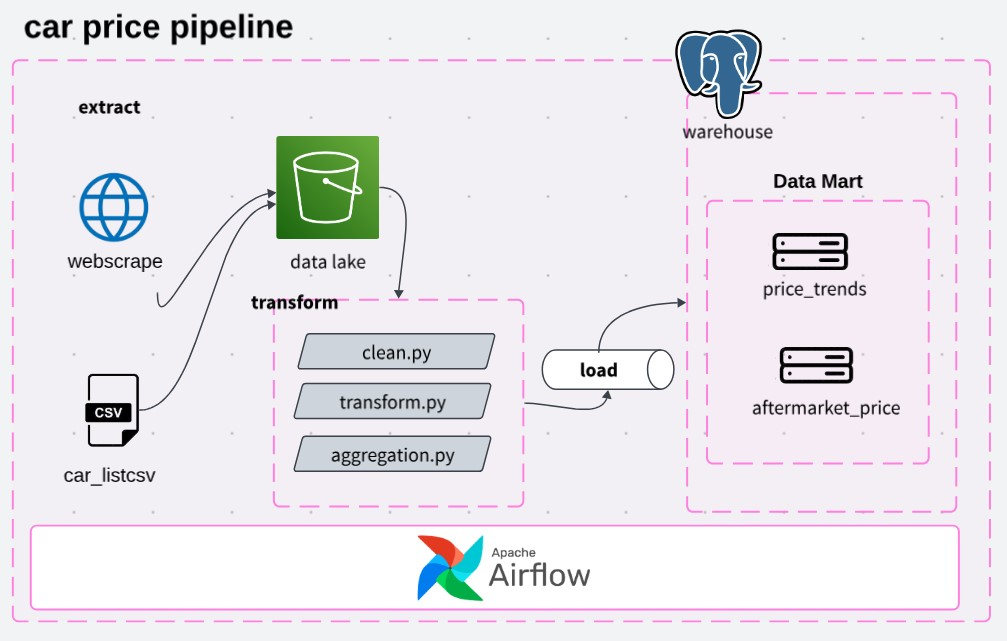
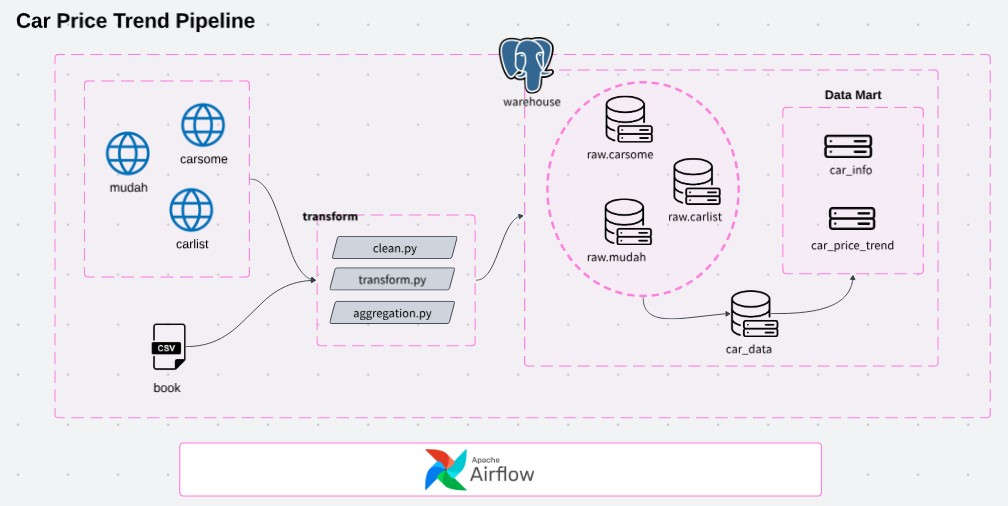
update

diff --git a/dags/extract_carlist.py b/dags/extract_carlist.py
@@ -1,0 +1,107 @@
+#simple web scrape using BeautifulSoup and undetected_chromedriver
+#implementaiton of undetected_chromedriver to avoid bot detection
+#version_main=132 is used for chrome version 132
+
+from bs4 import BeautifulSoup
+from datetime import datetime
+from selenium.webdriver.chrome.options import Options
+
+import time
+import undetected_chromedriver as uc
+
+
+def get_carlist():
+    carlist_data = []
+    date_extracted = datetime.now().strftime("%Y-%m-%d %H:%M:%S")
+    page = 1
+    stop_page = 2
+
+    try:
+        while page < stop_page:
+            chrome_options = Options()
+            chrome_options.add_argument("--headless")
+            chrome_options.add_argument("--disable-gpu")
+            chrome_options.add_argument("--window-size=1920,1080")
+            chrome_options.add_argument("--disable-dev-shm-usage")
+            chrome_options.add_argument("--no-sandbox")
+            chrome_options.add_argument("--disable-blink-features=AutomationControlled")
+            chrome_options.add_argument("--user-agent=Mozilla/5.0 (Windows NT 10.0; Win64; x64) AppleWebKit/537.36 (KHTML, like Gecko) Chrome/91.0.4472.124 Safari/537.36")
+            driver = uc.Chrome(version_main=132, options=chrome_options)
+            base_url = f"https://www.carlist.my/used-cars-for-sale/malaysia?sort=modification_date_search.desc"
+
+            if page > 1:
+                base_url = f"{base_url}&page_number={page}&page_size=25"
+
+            driver.get(base_url)
+            time.sleep(10)
+            html = driver.page_source
+            driver.quit()
+            soup = BeautifulSoup(html, 'html.parser')
+            
+            article_grids = soup.find_all("article")
+            for article_grid in article_grids:
+
+                # get data from article
+                title = article_grid.get("data-title", "N/A")
+                brand = article_grid.get("data-make", "N/A")
+                model = article_grid.get("data-model", "N/A")
+                model_group = article_grid.get("data-model-group", "N/A")
+                variant = article_grid.get("data-variant", "N/A")
+                body_type = article_grid.get("data-body-type", "N/A")
+                transmission = article_grid.get("data-transmission", "N/A")
+                mileage = article_grid.get("data-mileage", "N/A")
+                type = article_grid.get("data-ad-type", "N/A")
+                manufactured = article_grid.get("data-year", "N/A")
+
+                #get link to enter subpage
+                subpage_chrome_options = Options()
+                subpage_chrome_options.add_argument("--headless")
+                subpage_chrome_options.add_argument("--disable-gpu")
+                subpage_chrome_options.add_argument("--window-size=1920,1080")
+                subpage_chrome_options.add_argument("--disable-dev-shm-usage")
+
+                link = article_grid.get("data-url", "N/A")
+                driver = uc.Chrome(version_main=132, options=subpage_chrome_options)
+                driver.get(link)
+                time.sleep(5)
+                subpage_html = driver.page_source
+                driver.quit()
+
+                subpage_soup = BeautifulSoup(subpage_html, 'html.parser')
+
+                find_price = subpage_soup.find('h3')
+                price= find_price.text.strip()
+
+                elements = subpage_soup.find_all('div', class_="c-card")
+                capacity = elements[4].text.strip()
+                capacity = capacity.split("\n")
+
+                find_date = subpage_soup.find_all('span', class_="u-color-muted")
+                data_upload = find_date[0].text.strip()            
+                
+                carlist_data.append({
+                            "title": title, 
+                            "brand": brand, 
+                            "model":model, 
+                            "model_group": model_group, 
+                            "variant": variant,
+                            "body_type": body_type, 
+                            "transmission": transmission, 
+                            "mileage": mileage, 
+                            "type": type,
+                            "capacity": capacity[1],
+                            "price": price,
+                            "manufactured": manufactured,
+                            "data_posted": data_upload,
+                            "date_extracted": date_extracted,
+                            "detail_link": link
+                    })
+
+            page += 1
+
+        return carlist_data
+        
+    except FileNotFoundError as e:
+        print(e)
+    except Exception as e:
+        print(f"An error occurred: {e}") 

diff --git a/README.md b/README.md
@@ -7,16 +7,15 @@ This project demonstrates a simple ETL pipeline designed to automate the extract
 ![tittle](https://carsomemy.s3.amazonaws.com/wp/used%20cars%20rs.jpg)
 
 **Project aim:**
-- Price Trends
-- Aftermarket price sell
+- Update on car information
+- Aftermarket price sell by date
 
 ## Pipeline design 
 
 ![Pipeline diagram](img/pipeline_design.jpg)
 
 ## Tools
-- Webscrape: BeautifulSoup
-- Data Lake: S3
+- Webscrape: Selenium
 - Data Warehouse: PostgreSQL
 - Language: Python, SQL
 - Orchestration: Airflow
@@ -24,21 +23,32 @@ This project demonstrates a simple ETL pipeline designed to automate the extract
 
 ## Data Ingestion
 
-#### Source (Extract)
+#### Data Source (Extraction)
+
 1st stage: Extracting data.
 
 - CSV File
-- WebScrape: `Octoparse`
+- WebScrape: Multiple source
+- Tools: Selenium
 
-#### Data staging (Transformation)
+    ```
+    Webriver Chrome:
+    - Chrome version (Version 132.0.6834.160 (Official Build) (64-bit))
+    - Webdriver version (https://storage.googleapis.com/chrome-for-testing-public/132.0.6834.160/win64/chrome-win64.zip)
+    ```
+
+#### Data Clean (Transformation)
 
 2nd stage: Cleaning, transform, and aggregating.
 
 ![Data Staging diagram](img/transformation_flow.jpg)
 
-#### Data Mart (Load)
+#### 3 layer Staging (Load)
 
-3rd stage: Load data to mart (aftermarket_price & price_trend)
+Implementation of 3 data layer stage:
+1. 1st layer: Load raw (raw.mudah, raw.carlist, raw.carsome)
+2. 2nd layer: Load combined car info (car_data)
+3. 3rd layer: Load data to mart (car_info & car_price_trend)
 
 **Schema**
 
